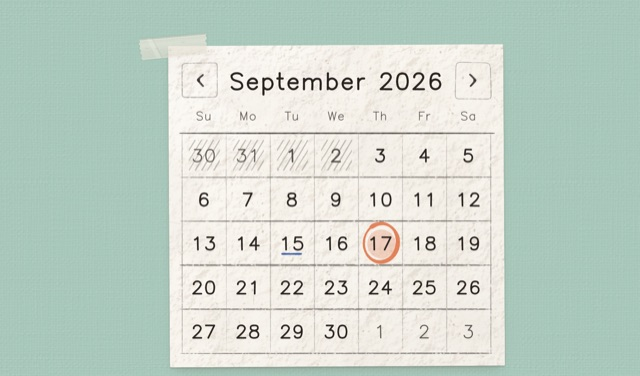
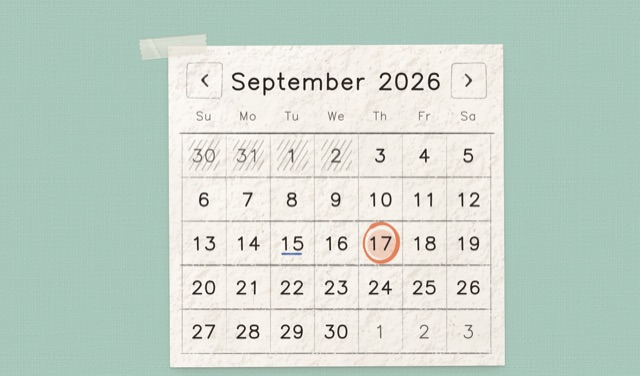
Calendar grid lines fall between the days
A calendar squeezed into a narrow space shrank its columns but kept
40 px rows, so the ruled lines, drawn as if the cells were square,
ran through the numbers. Days now stay square as they shrink, and the
grid is ruled from the real column width. Several months stack when
there is no room side by side, each with its own arrow, and the
month name sizes itself to fit on one line.

On phones, long install commands in inline code wrap instead of
widening the page, long file tabs on block pages wrap, and docs
stages give examples a little more room. The planner block's clip
no longer covers the year, and its agenda dates stay on one line.

Changed region(s): [[0.2812, 0.1755, 0.5, 0.2633], [0.5938, 0.1755, 0.7812, 0.2633], [0.5312, 0.2048, 0.5625, 0.234]]

diff --git a/src/components/ui/calendar.tsx b/src/components/ui/calendar.tsx
@@ -63,7 +63,7 @@ function CalendarMonthGrid({ className, children, ...props }: MonthGridProps) {
     still: true,
   })
   return (
-    <div data-slot="calendar-grid" ref={ruled ? hostRef : undefined} {...(ruled ? hostProps : {})} className="relative isolate w-fit">
+    <div data-slot="calendar-grid" ref={ruled ? hostRef : undefined} {...(ruled ? hostProps : {})} className="relative isolate w-fit [grid-area:grid]">
       {ruled ? node : null}
       <table className={className} {...props}>
         {children}
@@ -96,7 +96,7 @@ function CalendarDayButton({ className, day, modifiers, children, ...props }: Da
       data-range-middle={modifiers.range_middle || undefined}
       aria-current={modifiers.today ? "date" : undefined}
       className={cn(
-        "grid size-[calc(100%-6px)] place-items-center m-[3px] cursor-default p-0 font-script text-[1.3rem] leading-none font-semibold text-inherit outline-hidden select-none compact:text-[1.2rem] calm:text-[1.05rem]",
+        "grid aspect-square w-[calc(100%-6px)] place-items-center m-[3px] cursor-default p-0 font-script text-[1.3rem] leading-none font-semibold text-inherit outline-hidden select-none compact:text-[1.2rem] calm:text-[1.05rem]",
         "data-[selected-single=true]:font-bold data-[range-start=true]:font-bold data-[range-end=true]:font-bold",
         "disabled:cursor-not-allowed aria-disabled:cursor-not-allowed",
         className
@@ -213,6 +213,7 @@ function Calendar({
         <DayPicker
           showOutsideDays={showOutsideDays}
           captionLayout={captionLayout}
+          navLayout="around"
           dir={dirProp ?? (ink.hasProvider ? ink.dir : undefined)}
           className={cn(
             "group/calendar p-3 [--cell:2.5rem] [--wn:2rem] compact:[--cell:2.125rem] calm:[--cell:1.875rem] calm:p-2 [[data-slot=card-content]_&]:p-0 [[data-slot=popover-content]_&]:bg-transparent",
@@ -224,14 +225,14 @@ function Calendar({
           }}
           classNames={{
             root: cn("w-fit", d.root),
-            months: cn("relative flex flex-col gap-5 md:flex-row", d.months),
-            month: cn("flex w-fit flex-col", d.month),
+            months: cn("relative flex flex-wrap justify-center gap-5", d.months),
+            month: cn("grid w-fit grid-cols-[var(--cell)_minmax(0,1fr)_var(--cell)] [grid-template-areas:'prev_cap_next'_'grid_grid_grid']", d.month),
             nav: cn("absolute inset-x-0 top-0 z-(--ll-z-raised) flex h-(--cell) w-full items-center justify-between", d.nav),
-            button_previous: cn("select-none aria-disabled:opacity-40", d.button_previous),
-            button_next: cn("select-none aria-disabled:opacity-40", d.button_next),
-            month_caption: cn("flex h-(--cell) w-full items-center justify-center px-(--cell)", d.month_caption),
+            button_previous: cn("place-self-center select-none [grid-area:prev] aria-disabled:opacity-40", d.button_previous),
+            button_next: cn("place-self-center select-none [grid-area:next] aria-disabled:opacity-40", d.button_next),
+            month_caption: cn("flex min-h-(--cell) w-full items-center justify-center [container-type:inline-size] [grid-area:cap]", d.month_caption),
             dropdowns: cn("flex h-(--cell) w-full items-center justify-center gap-2.5", d.dropdowns),
-            caption_label: cn("font-script text-[1.65rem] leading-none font-semibold text-ink select-none calm:text-[1.4rem]", d.caption_label),
+            caption_label: cn("font-script text-[min(1.65rem,13cqi)] leading-none font-semibold whitespace-nowrap text-ink select-none calm:text-[min(1.4rem,13cqi)]", d.caption_label),
             month_grid: cn("table-fixed border-collapse [border-spacing:0]", d.month_grid),
             weekdays: cn(d.weekdays),
             weekday: cn(
@@ -242,7 +243,7 @@ function Calendar({
             week_number_header: cn("w-(--wn) p-0", d.week_number_header),
             week_number: cn("w-(--wn) p-0 pe-2 text-end align-middle font-type text-xs font-normal text-pencil-text select-none", d.week_number),
             day: cn(
-              "group/day size-(--cell) p-0 text-center align-middle text-ink data-outside:text-pencil-text data-outside:[&>button]:font-normal data-disabled:text-pencil-text",
+              "group/day w-(--cell) p-0 text-center align-middle text-ink data-outside:text-pencil-text data-outside:[&>button]:font-normal data-disabled:text-pencil-text",
               d.day
             ),
             hidden: cn("invisible", d.hidden),

diff --git a/src/lib/ink/recipes/calendar-ink.ts b/src/lib/ink/recipes/calendar-ink.ts
@@ -140,7 +140,7 @@ const v = (name: string, i: number): string => `var(--ll-cal-${name}${i})`
   css += `${S} td[data-day]:has(>button:focus-visible)::after{content:"";position:absolute;inset:-8px;z-index:2;pointer-events:none;background:var(--ll-focus);${maskBox('var(--ll-cal-focus)')}}`
   css += `${S} td[data-day]>button:focus-visible{outline:none}`
 
-  css += `@media (hover:hover){${S} td:not([data-range]):not([data-disabled])>button:not([data-selected-single=true]):hover{background:var(--ll-hi-select);border-radius:3px 8px 4px 9px/8px 3px 9px 4px}}`
+  css += `@media (hover:hover){${S} td:not([data-range]):not([data-disabled])>button:not([data-selected-single=true]):hover{background:var(--ll-hi-select);border-radius:6px}}`
 
   css +=
     `@media (forced-colors:active){` +
@@ -164,7 +164,8 @@ export const calendarGridRecipe = defineRecipe<CalendarGridParams>({
   pad: 12,
   draw(ink, { w, h }, { rows, weekNumbers }, ctx) {
     const head = Math.min(CALENDAR_HEAD, h * 0.4)
-    const cell = (h - head) / Math.max(1, rows)
+    const row = (h - head) / Math.max(1, rows)
+    const cell = weekNumbers ? row : w / 7
     const wn = weekNumbers ? Math.max(0, w - 7 * cell) : 0
     const rtl = ctx.dir === 'rtl'
     const X = (x: number): number => (rtl ? w - x : x)
@@ -172,7 +173,7 @@ export const calendarGridRecipe = defineRecipe<CalendarGridParams>({
     ink.layer('rest', () => {
       line(ink, -2, head, w + 3, head, { pen: calm ? 'pencil.fine' : 'ink.fine', opts: { alpha: 0.85, simple: true } })
       for (let r = 1; r <= rows; r++) {
-        const y = head + r * cell
+        const y = head + r * row
         line(ink, -2, y, w + 3, y, { pen: calm ? 'pencil.fine' : 'pencil', opts: { alpha: calm ? 0.7 : 0.75, simple: true } })
       }
       for (let c = 0; c <= 7; c++) {

diff --git a/src/docs/meta/calendar.ts b/src/docs/meta/calendar.ts
@@ -34,7 +34,7 @@ export default {
     "One day is the tab stop (roving tabindex). Arrow keys move by day and week, Home and End to the week edge, PageUp / PageDown by month, Shift with them by year, Enter and Space select. Right-to-left swaps the horizontal arrows.",
     "The previous / next buttons keep `aria-disabled` (not `disabled`) at the end of `startMonth` / `endMonth`, so focus is not lost when you reach the limit.",
     "Nothing depends on hue alone: the chosen day is circled and bold, a range is a swipe with bold ends, a disabled day is hatched (and unclickable), today is underlined, and focus is a drawn blue loop that bleeds past the cell. The month caption is a polite live region, so paging announces the new month.",
-    "Touch: every day is at least 30 px (40 px by default). Compact density is 34 px, calm 30 px.",
+    "Touch: a day is 40 px by default, 34 px in compact density and 30 px in calm. In a space narrower than the month the days shrink but stay square, so the ruled lines always fall between them, and several months stack instead of squeezing side by side.",
     "Forced colors (Windows high contrast): the masks give way to real borders: a border round the chosen day, top and bottom borders on a range, an underline for today, a line-through for disabled days and a Highlight outline for focus.",
     "Reduced motion: month changes do not animate (`animate` is off by default).",
   ],

diff --git a/src/blocks/calendar-planner/components/calendar-planner-agenda.tsx b/src/blocks/calendar-planner/components/calendar-planner-agenda.tsx
@@ -30,7 +30,7 @@ export function DayCard({ day, list, onOpen, className }: { day: string; list: r
             {events.map((e) => (
               <li key={e.id}>
                 <button type="button" className={row} onClick={() => onOpen(e)}>
-                  <span className="ll-num w-11 shrink-0 text-end text-ink-soft">{clock(e.start)}</span>
+                  <span className="ll-num w-14 shrink-0 text-end whitespace-nowrap text-ink-soft">{clock(e.start)}</span>
                   <Dot kind={e.kind} />
                   <span className="min-w-0 flex-1 truncate">{e.title}</span>
                   <span className="sr-only">, {clock(e.start)} to {clock(e.end)}, {kindOf(e.kind).label}. Open to change it.</span>
@@ -64,7 +64,7 @@ export function ComingUp({ day, list, onOpen, className }: { day: string; list: 
             {next.map((e) => (
               <li key={e.id}>
                 <button type="button" className={row} onClick={() => onOpen(e)}>
-                  <span className="ll-num w-16 shrink-0 text-ink-soft">{format(parseDay(e.date), "EEE d")}</span>
+                  <span className="ll-num w-20 shrink-0 whitespace-nowrap text-ink-soft">{format(parseDay(e.date), "EEE d")}</span>
                   <Dot kind={e.kind} />
                   <span className="min-w-0 flex-1 truncate">{e.title}</span>
                   <span className="sr-only">

diff --git a/src/blocks/calendar-planner/page.tsx b/src/blocks/calendar-planner/page.tsx
@@ -109,8 +109,8 @@ export default function CalendarPlanner({ as: Root = "main" }: { as?: "main" | "
       <div className="grid items-start gap-6 lg:grid-cols-[auto_1fr]">
         <div className="flex flex-col gap-4">
           <DotsContext.Provider value={dots}>
-            <div className="relative mx-auto w-fit">
-              <Fastener kind="clip" seed="planner-clip" className="pointer-events-none absolute -top-5 right-[3.125rem] z-(--ll-z-prop) calm:hidden" />
+            <div className="relative mx-auto w-fit max-lg:mt-8">
+              <Fastener kind="clip" seed="planner-clip" className="pointer-events-none absolute -top-10 right-[3.125rem] z-(--ll-z-prop) calm:hidden" />
               <Calendar
                 mode="single"
                 required

diff --git a/src/components/ui/typography.tsx b/src/components/ui/typography.tsx
@@ -126,7 +126,7 @@ function InlineCode({ className, ...props }: React.ComponentProps<"code">) {
   return (
     <code
       data-slot="typography-inline-code"
-      className={cn("relative bg-muted px-[0.35rem] py-[0.15rem] font-mono text-[0.85em] font-medium text-ink [border-radius:2px_6px_3px_5px/5px_2px_6px_3px]", className)}
+      className={cn("relative bg-muted box-decoration-clone px-[0.35rem] py-[0.15rem] font-mono text-[0.85em] font-medium text-ink wrap-anywhere [border-radius:2px_6px_3px_5px/5px_2px_6px_3px]", className)}
       {...props}
     />
   )

diff --git a/src/docs/kit/Tabs.tsx b/src/docs/kit/Tabs.tsx
@@ -41,7 +41,7 @@ export function Tabs({ label, items, value, defaultValue, onValueChange, variant
         className="max-w-full flex-wrap justify-start gap-y-2 aria-[orientation=horizontal]:h-auto"
       >
         {items.map((item) => (
-          <TabsTrigger key={item.id} value={item.id} aria-label={item.ariaLabel} className="flex-none">
+          <TabsTrigger key={item.id} value={item.id} aria-label={item.ariaLabel} className="h-auto min-h-9 max-w-full flex-none whitespace-normal wrap-anywhere">
             {item.label}
           </TabsTrigger>
         ))}

diff --git a/src/docs/kit/Stage.tsx b/src/docs/kit/Stage.tsx
@@ -15,8 +15,8 @@ export interface StageProps {
 }
 
 const INNER: Record<NonNullable<ExampleMeta["layout"]>, string> = {
-  center: "flex w-full min-h-[inherit] flex-wrap items-center justify-center gap-4 px-6 py-10",
-  stack: "mx-auto flex w-full min-h-[inherit] max-w-xl flex-col items-start gap-4 px-6 py-8",
+  center: "flex w-full min-h-[inherit] flex-wrap items-center justify-center gap-4 px-4 py-10 sm:px-6",
+  stack: "mx-auto flex w-full min-h-[inherit] max-w-xl flex-col items-start gap-4 px-4 py-8 sm:px-6",
   full: "block w-full min-h-[inherit]",
 }
 
